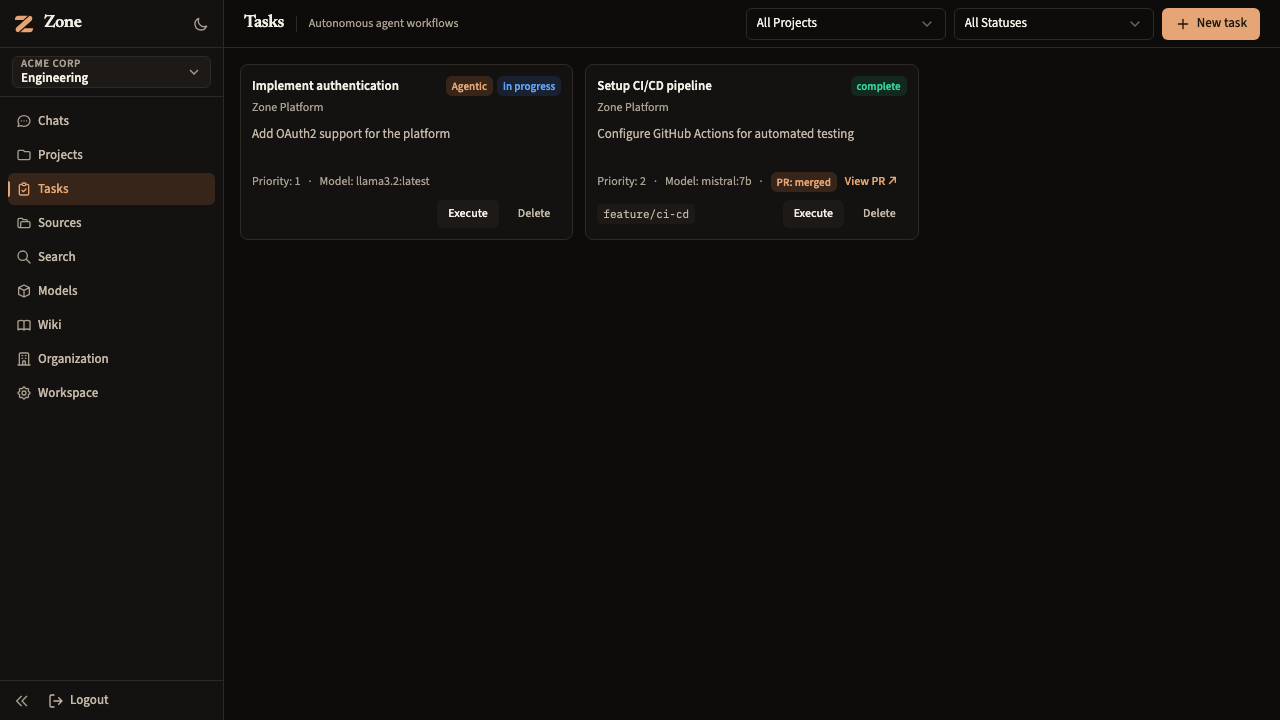
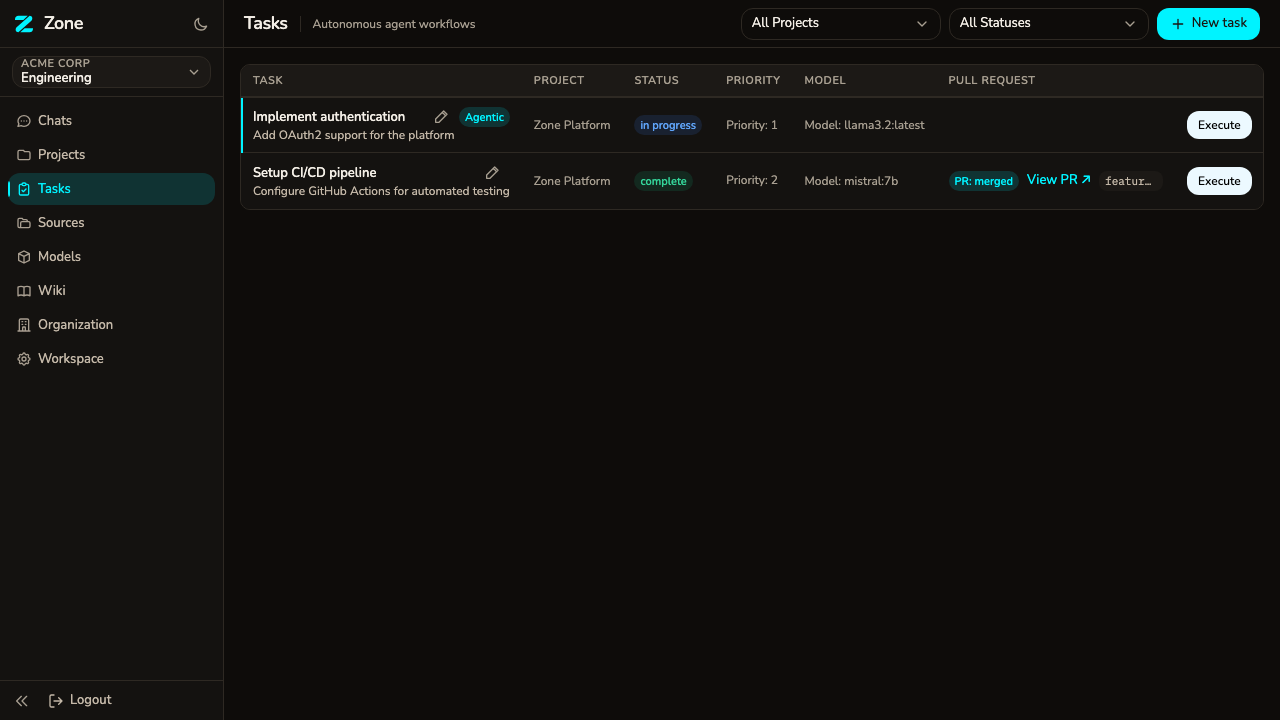
test(console): screenshot the optional task title and its inline rename
Adds the wizard's details step and the inline rename, in the task view and
the list, in light, dark and at 375px. The populated task-list baselines
change because each title now has a rename pencil beside it.

diff --git a/manager/frontend/e2e/screenshots.e2e.ts b/manager/frontend/e2e/screenshots.e2e.ts
@@ -1,7 +1,7 @@
 import { test, expect } from './fixtures';
 import type { Page } from '@playwright/test';
 import { blockServiceWorker, routeApi } from './test-utils';
-import { setupAdminAuth, setupCommonRoutes } from './layout-fixtures';
+import { mockTasks, setupAdminAuth, setupCommonRoutes } from './layout-fixtures';
 
 const runScreenshots = process.env.RUN_SCREENSHOTS === 'true';
 const describeScreenshots = runScreenshots ? test.describe : test.describe.skip;
@@ -532,6 +532,68 @@ describeScreenshots('Screenshots - Populated States', () => {
       fullPage: true,
     });
   });
+
+  const TASK_TITLE_VIEWS = [
+    { name: 'light', theme: 'light', width: 1280, height: 800 },
+    { name: 'dark', theme: 'dark', width: 1280, height: 800 },
+    { name: '375', theme: 'light', width: 375, height: 812 },
+  ] as const;
+
+  for (const view of TASK_TITLE_VIEWS) {
+    test(`Task title, optional in the wizard and renamed inline (${view.name})`, async ({
+      page,
+    }) => {
+      await setupCommonRoutes(page, true);
+      await routeApi(page, '**/api/tasks/task-1', (route) =>
+        route.fulfill({ status: 200, json: { task: mockTasks[0] } })
+      );
+      await page.setViewportSize({ width: view.width, height: view.height });
+      await page.goto('/login');
+      await page.evaluate(() => localStorage.clear());
+      await setupAdminAuth(page);
+
+      await page.goto('/tasks');
+      await expect(page.getByRole('navigation')).toBeVisible({ timeout: 10000 });
+      await page.evaluate((theme) => {
+        document.documentElement.setAttribute('data-theme', theme);
+      }, view.theme);
+      await expect(page.locator('.task-card:not(.skeleton-card)').first()).toBeVisible();
+
+      await page.getByRole('button', { name: /New task/ }).click();
+      const wizard = page.getByRole('dialog', { name: 'New Task' });
+      await wizard.locator('.project-selection-option').first().click();
+      await wizard.getByRole('button', { name: 'Next' }).click();
+      await wizard
+        .getByLabel('Description')
+        .fill('Users on Safari are sent back to the login page every time they sign in.');
+      await expect(wizard.getByRole('button', { name: 'Next' })).toBeEnabled();
+      await capturePage(page, { path: `screenshots/task-title-wizard-${view.name}.png` });
+      await wizard.getByRole('button', { name: 'Cancel' }).click();
+      await expect(wizard).toHaveCount(0);
+
+      await page.goto('/tasks?task=task-1');
+      const rename = page.getByRole('button', { name: `Rename ${mockTasks[0].title}` });
+      await expect(rename).toBeVisible();
+      await page.evaluate((theme) => {
+        document.documentElement.setAttribute('data-theme', theme);
+      }, view.theme);
+      await rename.click();
+      const title = page.getByRole('textbox', { name: 'Task title' });
+      await expect(title).toBeFocused();
+      await title.fill('Sign in with Google and GitHub');
+      expect(
+        await page.evaluate(() => document.documentElement.scrollWidth <= window.innerWidth)
+      ).toBe(true);
+      await capturePage(page, { path: `screenshots/task-title-rename-${view.name}.png` });
+      await title.press('Escape');
+
+      await page.getByRole('button', { name: 'Close' }).click();
+      await expect(page.getByRole('table', { name: 'Tasks' })).toBeVisible();
+      await page.getByRole('button', { name: 'Rename', exact: true }).first().click();
+      await expect(page.getByRole('textbox', { name: 'Task title' })).toBeFocused();
+      await capturePage(page, { path: `screenshots/task-title-rename-list-${view.name}.png` });
+    });
+  }
 
   test('Sources page (populated)', async ({ page }) => {
     await setupCommonRoutes(page, true);
